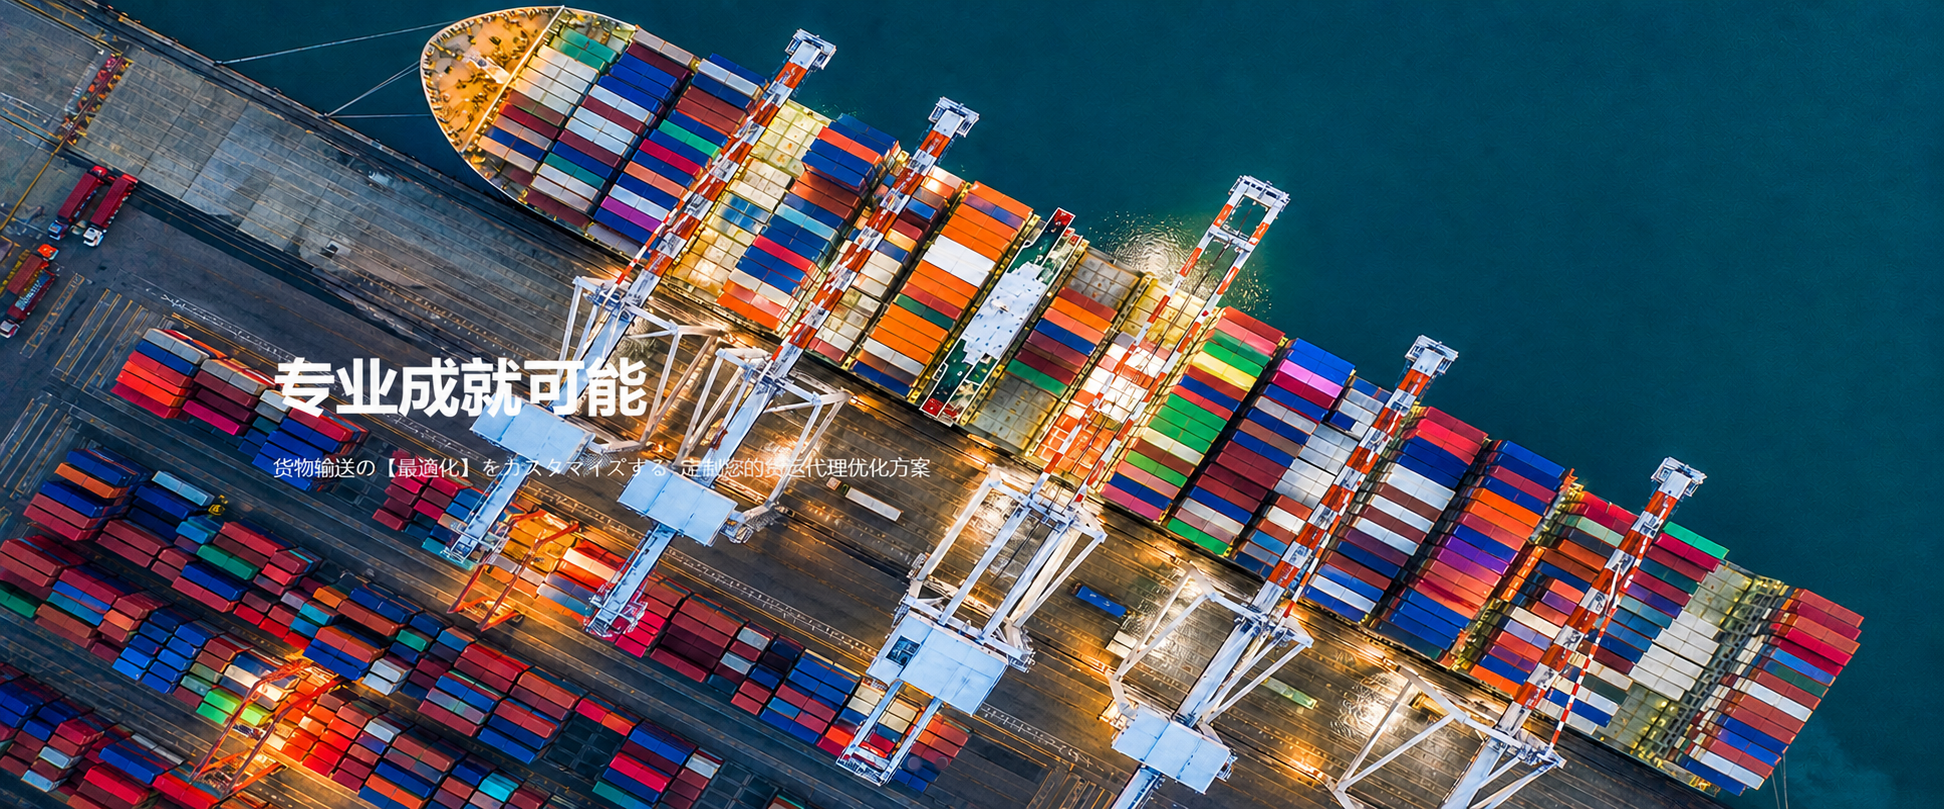
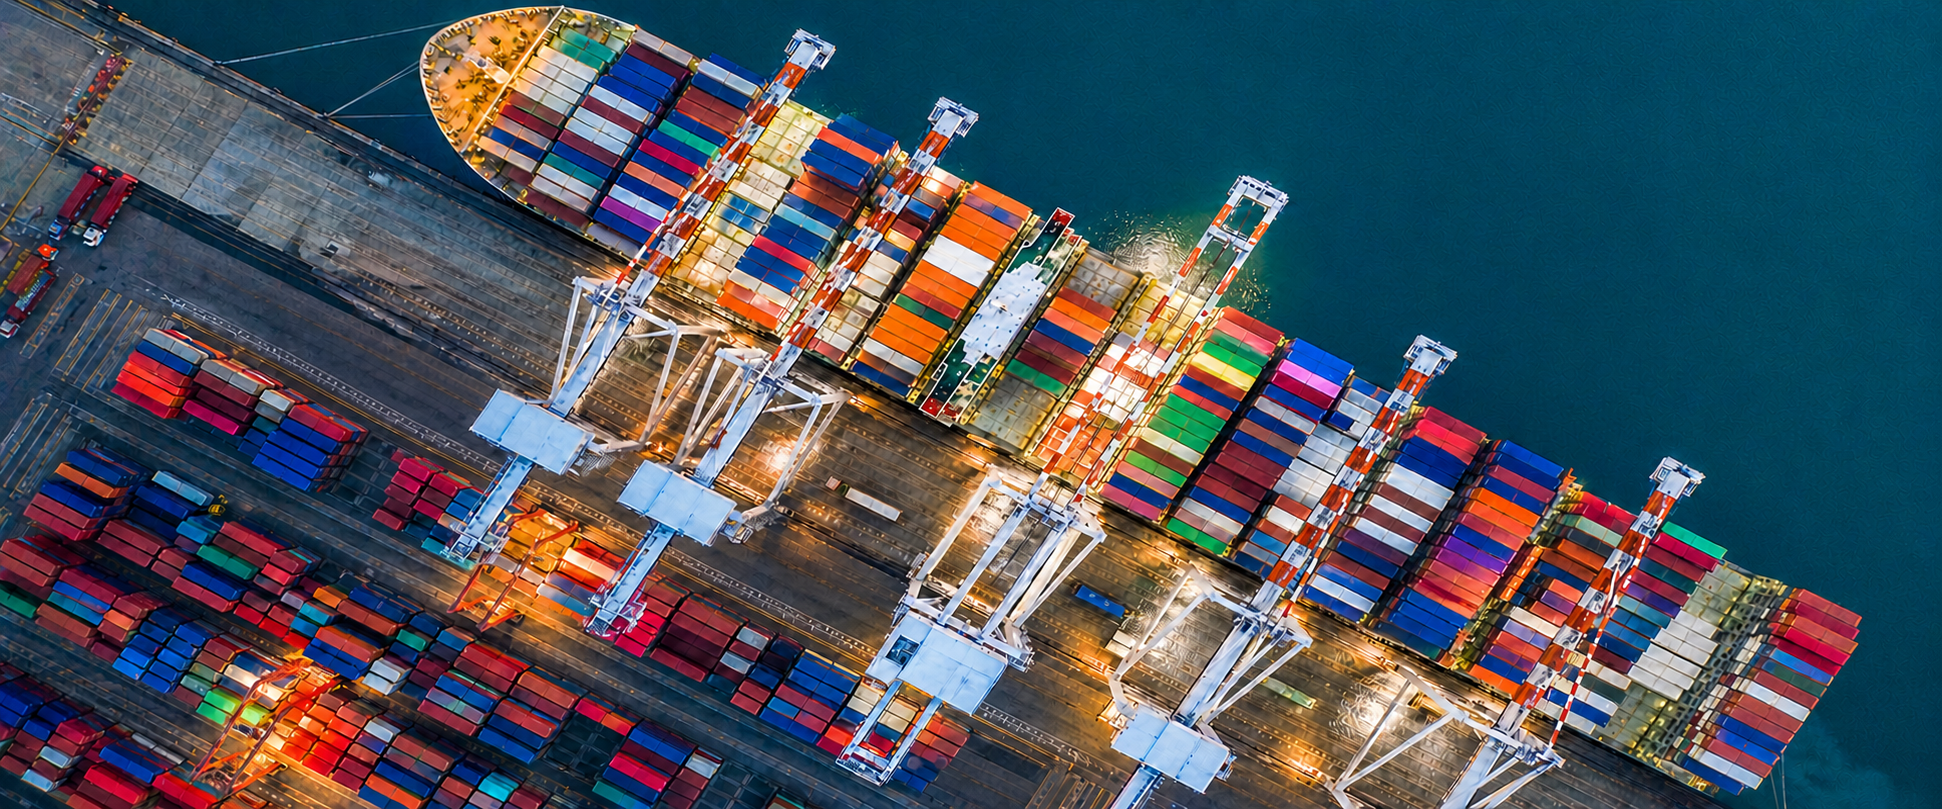
Update homepage and SSL deployment

diff --git a/styles.css b/styles.css
@@ -422,17 +422,39 @@ img {
 }
 
 .hero-media::before,
-.hero-media::after,
-.hero-media .hero-overlay {
+.hero-media::after {
   display: none;
 }
 
+.hero-media .hero-overlay {
+  display: block;
+  z-index: 1;
+  background: linear-gradient(90deg, rgba(0, 0, 0, 0.46) 0%, rgba(0, 0, 0, 0.28) 34%, rgba(0, 0, 0, 0.04) 64%, transparent 100%);
+}
+
 .hero-media .hero-inner {
+  z-index: 2;
   min-height: 100%;
 }
 
 .hero-media .hero-copy {
-  display: none;
+  display: block;
+  max-width: 620px;
+  padding-top: 0;
+  margin-left: clamp(52px, 7vw, 142px);
+  text-shadow: 0 2px 14px rgba(0, 0, 0, 0.38);
+}
+
+.hero-media .hero-copy h1 {
+  margin-bottom: clamp(16px, 1.15vw, 24px);
+  font-size: clamp(36px, 4.15vw, 64px);
+}
+
+.hero-media .hero-copy p {
+  max-width: 720px;
+  font-size: clamp(16px, 1.35vw, 24px);
+  line-height: 1.55;
+  color: rgba(255, 255, 255, 0.9);
 }
 
 .hero-media .hero-indicators {
@@ -2444,66 +2466,6 @@ img {
   margin: 0;
   color: var(--muted);
   line-height: 1.9;
-}
-
-.login-modal {
-  position: fixed;
-  inset: 0;
-  z-index: 80;
-  display: none;
-  align-items: center;
-  justify-content: center;
-  padding: 24px;
-}
-
-.login-modal.is-open {
-  display: flex;
-}
-
-.login-modal-backdrop {
-  position: absolute;
-  inset: 0;
-  background: rgba(12, 12, 24, 0.52);
-  backdrop-filter: blur(4px);
-}
-
-.login-modal-panel {
-  position: relative;
-  width: min(420px, 100%);
-  background: #fff;
-  padding: 34px 34px 30px;
-  box-shadow: 0 24px 70px rgba(12, 12, 24, 0.22);
-}
-
-.login-modal-close {
-  position: absolute;
-  top: 12px;
-  right: 14px;
-  width: 32px;
-  height: 32px;
-  border: 0;
-  background: transparent;
-  color: #7b808c;
-  font-size: 28px;
-  line-height: 1;
-  cursor: pointer;
-}
-
-.login-modal-panel h2 {
-  margin: 0 0 12px;
-  font-size: 26px;
-}
-
-.login-modal-panel p {
-  margin: 0;
-  color: var(--muted);
-  line-height: 1.8;
-}
-
-.login-modal-actions {
-  display: flex;
-  gap: 12px;
-  margin-top: 28px;
 }
 
 .footer {

diff --git a/script.js b/script.js
@@ -52,9 +52,6 @@ const siteAssetsApiUrl = "/api/site-assets";
 const siteAssetsFallbackUrl = "/data/site-assets.json?v=20260511-remove-shouye4";
 const app = document.querySelector("#app");
 const navLinks = Array.from(document.querySelectorAll(".nav a"));
-const loginRequiredLinks = Array.from(document.querySelectorAll("[data-login-required]"));
-const loginRequiredModal = document.querySelector("#login-required-modal");
-const loginModalCloseButtons = Array.from(document.querySelectorAll("[data-login-modal-close]"));
 
 let noticesCache = null;
 let siteAssetsCache = null;
@@ -143,17 +140,17 @@ const defaultSiteAssets = {
       {
         title: "专业成就可能",
         subtitle: "精准安排每一段航程，连接你的全球交付计划。",
-        backgroundImageUrl: "/media/shouye-1-hd.png"
+        backgroundImageUrl: "/media/shouye-1-hd.png?v=20260512-textless"
       },
       {
         title: "专业成就可能",
         subtitle: "海运、空运与仓配协同，提升每一次履约效率。",
-        backgroundImageUrl: "/media/shouye-2-hd.png"
+        backgroundImageUrl: "/media/shouye-2-hd.png?v=20260512-textless"
       },
       {
         title: "专业成就可能",
         subtitle: "合规清关与现场查验支持，让货物流转更顺畅。",
-        backgroundImageUrl: "/media/shouye-3-hd.png"
+        backgroundImageUrl: "/media/shouye-3-hd.png?v=20260512-textless"
       }
     ]
   },
@@ -501,10 +498,6 @@ const aboutTimelineItems = [
     value: ["1120万元（约2亿2000万日元）"]
   },
   {
-    label: "公司代表",
-    value: ["代表董事兼总经理", "盛晓东"]
-  },
-  {
     label: "主要经营内容",
     value: ["货物运输代理业务", "进出口通关代理业务", "进出口代理业务"]
   },
@@ -725,8 +718,6 @@ function relatedCompanyMarkup() {
             <dd>2010年1月15日</dd>
             <dt>资本金</dt>
             <dd>1000万日元</dd>
-            <dt>公司法人</dt>
-            <dd>代表董事兼总经理 盛晓亮</dd>
             <dt>主要经营内容</dt>
             <dd>货物运输 / 进出口通关代理业务 / 进出口代理业务</dd>
           </dl>
@@ -1605,43 +1596,6 @@ function bindServiceTabs(siteAssets) {
   });
 }
 
-function openLoginRequiredModal() {
-  if (!loginRequiredModal) {
-    return;
-  }
-
-  loginRequiredModal.classList.add("is-open");
-  loginRequiredModal.setAttribute("aria-hidden", "false");
-}
-
-function closeLoginRequiredModal() {
-  if (!loginRequiredModal) {
-    return;
-  }
-
-  loginRequiredModal.classList.remove("is-open");
-  loginRequiredModal.setAttribute("aria-hidden", "true");
-}
-
-function bindLoginRequiredModal() {
-  loginRequiredLinks.forEach((link) => {
-    link.addEventListener("click", (event) => {
-      event.preventDefault();
-      openLoginRequiredModal();
-    });
-  });
-
-  loginModalCloseButtons.forEach((button) => {
-    button.addEventListener("click", closeLoginRequiredModal);
-  });
-
-  document.addEventListener("keydown", (event) => {
-    if (event.key === "Escape") {
-      closeLoginRequiredModal();
-    }
-  });
-}
-
 async function render() {
   const route = normalizeRoute(location.hash);
   const path = routePath(route);
@@ -1768,5 +1722,4 @@ if (!location.hash) {
   render();
 }
 
-bindLoginRequiredModal();
 window.addEventListener("hashchange", render);

diff --git a/index.html b/index.html
@@ -4,7 +4,7 @@
   <meta charset="UTF-8">
   <meta name="viewport" content="width=device-width, initial-scale=1.0">
   <title>新悦航运</title>
-  <link rel="stylesheet" href="./styles.css?v=20260511-remove-shouye4">
+  <link rel="stylesheet" href="./styles.css?v=20260512-hero-text-overlay">
 </head>
 <body>
   <div class="topbar">
@@ -32,13 +32,7 @@
         <a data-route="/orderTracking" href="#/orderTracking">货物追踪</a>
         <a data-route="/news" href="#/news">资讯中心</a>
         <a data-route="/aboutUs" href="#/aboutUs">关于我们</a>
-        <a data-route="/workspace" href="#/workspace" data-login-required>我的工作台</a>
       </nav>
-
-      <div class="header-actions">
-        <a class="btn btn-primary" href="#/login">登录</a>
-        <a class="btn btn-outline" href="#/register">注册</a>
-      </div>
     </div>
   </header>
 
@@ -72,19 +66,6 @@
     </div>
   </footer>
 
-  <div class="login-modal" id="login-required-modal" aria-hidden="true">
-    <div class="login-modal-backdrop" data-login-modal-close></div>
-    <div class="login-modal-panel" role="dialog" aria-modal="true" aria-labelledby="login-modal-title">
-      <button class="login-modal-close" type="button" data-login-modal-close aria-label="关闭">×</button>
-      <h2 id="login-modal-title">需要登录</h2>
-      <p>请先登录后查看我的工作台。</p>
-      <div class="login-modal-actions">
-        <a class="btn btn-primary" href="#/login">去登录</a>
-        <button class="btn btn-outline" type="button" data-login-modal-close>关闭</button>
-      </div>
-    </div>
-  </div>
-
-  <script src="./script.js?v=20260511-remove-shouye4"></script>
+  <script src="./script.js?v=20260512-hero-text-overlay"></script>
 </body>
 </html>